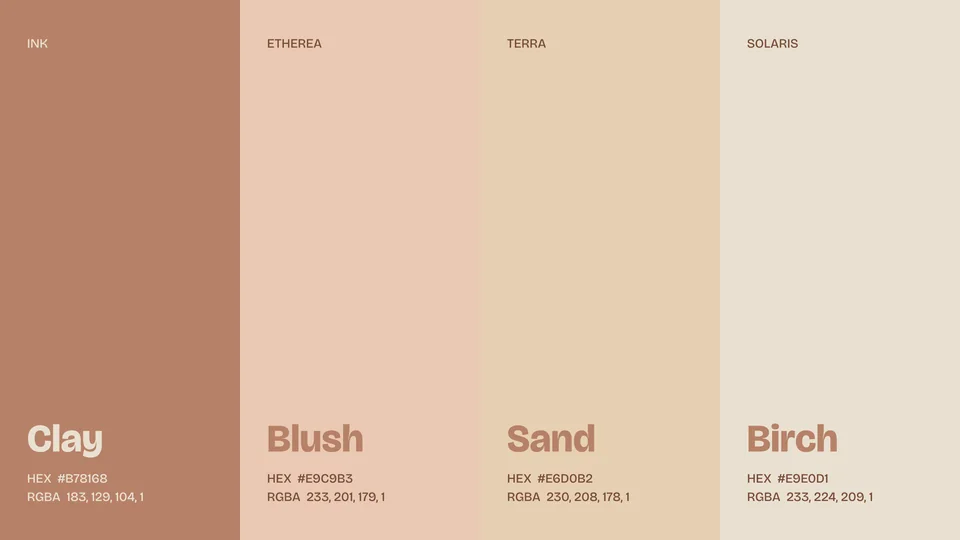
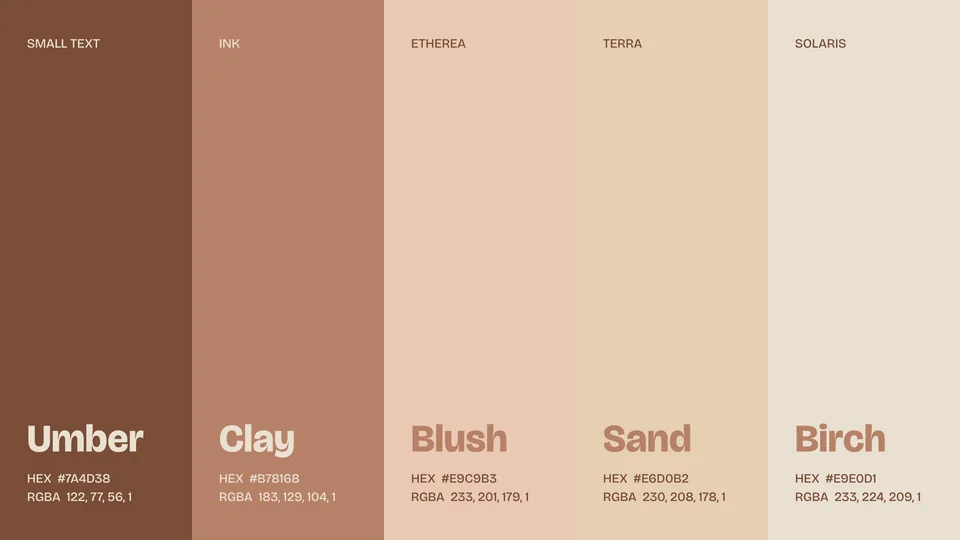
719 Studios: palette slide shows five colours, with Umber for small text

diff --git a/work/719-studios/index.html b/work/719-studios/index.html
@@ -28,19 +28,19 @@
     <a class="btn" href="mailto:hello@jcg.studio" data-flap><span class="flap">Work with me</span><span class="arr" aria-hidden="true">→</span></a>
   </aside>
   <div class="dk-stack">
-    <section class="sl" data-reveal role="img" aria-label="The 719 Studios logo in clay on a pale birch ground"><div class="in"><img class="fill" src="../../assets/img/work/719/deck/figma/01-logo-1920.webp?v=20261116g" srcset="../../assets/img/work/719/deck/figma/01-logo-960.webp?v=20261116g 960w, ../../assets/img/work/719/deck/figma/01-logo-1920.webp?v=20261116g 1920w" sizes="(max-width: 899px) 100vw, 70vw" width="1920" height="1080" alt="" decoding="async"></div></section>
-    <section class="sl" data-reveal role="img" aria-label="The four brand colours with their names and values: Clay, Blush, Sand and Birch"><div class="in"><img class="fill" src="../../assets/img/work/719/deck/figma/02-palette-1920.webp?v=20261116g" srcset="../../assets/img/work/719/deck/figma/02-palette-960.webp?v=20261116g 960w, ../../assets/img/work/719/deck/figma/02-palette-1920.webp?v=20261116g 1920w" sizes="(max-width: 899px) 100vw, 70vw" width="1920" height="1080" alt="" loading="lazy" decoding="async"></div></section>
-    <section class="sl" data-reveal role="img" aria-label="The typeface Bricolage Grotesque in three weights, with the three studio taglines"><div class="in"><img class="fill" src="../../assets/img/work/719/deck/figma/03-type-1920.webp?v=20261116g" srcset="../../assets/img/work/719/deck/figma/03-type-960.webp?v=20261116g 960w, ../../assets/img/work/719/deck/figma/03-type-1920.webp?v=20261116g 1920w" sizes="(max-width: 899px) 100vw, 70vw" width="1920" height="1080" alt="" loading="lazy" decoding="async"></div></section>
-    <section class="sl" data-reveal role="img" aria-label="The 719 Studios logo set inside the orange circle of the Etherea room"><div class="in"><img class="fill" src="../../assets/img/work/719/deck/figma/04-etherea-1920.webp?v=20261116g" srcset="../../assets/img/work/719/deck/figma/04-etherea-960.webp?v=20261116g 960w, ../../assets/img/work/719/deck/figma/04-etherea-1920.webp?v=20261116g 1920w" sizes="(max-width: 899px) 100vw, 70vw" width="1920" height="1080" alt="" loading="lazy" decoding="async"></div></section>
-    <section class="sl" data-reveal role="img" aria-label="Three studio posters, each showing its room through its own shape, laid over a photo of the Terra room"><div class="in"><img class="fill" src="../../assets/img/work/719/deck/figma/05-posters-1920.webp?v=20261116g" srcset="../../assets/img/work/719/deck/figma/05-posters-960.webp?v=20261116g 960w, ../../assets/img/work/719/deck/figma/05-posters-1920.webp?v=20261116g 1920w" sizes="(max-width: 899px) 100vw, 70vw" width="1920" height="1080" alt="" loading="lazy" decoding="async"></div></section>
-    <section class="sl" data-reveal role="img" aria-label="Four figures over a photo taken at Etherea: 1,000+ reviews, 5.0 average rating, No. 9 on Peerspace in Los Angeles in 2023, 3.2M timelapse views"><div class="in"><img class="fill" src="../../assets/img/work/719/deck/figma/06-numbers-1920.webp?v=20261116g" srcset="../../assets/img/work/719/deck/figma/06-numbers-960.webp?v=20261116g 960w, ../../assets/img/work/719/deck/figma/06-numbers-1920.webp?v=20261116g 1920w" sizes="(max-width: 899px) 100vw, 70vw" width="1920" height="1080" alt="" loading="lazy" decoding="async"></div></section>
-    <section class="sl" data-reveal role="img" aria-label="The 719 Studios logo over the empty Terra room"><div class="in"><img class="fill" src="../../assets/img/work/719/deck/figma/07-terra-1920.webp?v=20261116g" srcset="../../assets/img/work/719/deck/figma/07-terra-960.webp?v=20261116g 960w, ../../assets/img/work/719/deck/figma/07-terra-1920.webp?v=20261116g 1920w" sizes="(max-width: 899px) 100vw, 70vw" width="1920" height="1080" alt="" loading="lazy" decoding="async"></div></section>
-    <section class="sl" data-reveal role="img" aria-label="Two oversized studio shapes with a circle between them holding the logo"><div class="in"><img class="fill" src="../../assets/img/work/719/deck/figma/09-pattern-shapes-1920.webp?v=20261116g" srcset="../../assets/img/work/719/deck/figma/09-pattern-shapes-960.webp?v=20261116g 960w, ../../assets/img/work/719/deck/figma/09-pattern-shapes-1920.webp?v=20261116g 1920w" sizes="(max-width: 899px) 100vw, 70vw" width="1920" height="1080" alt="" loading="lazy" decoding="async"></div></section>
-    <section class="sl" data-reveal role="img" aria-label="A concept ad banner with the line Room to make and three photos seen through the studio shapes"><div class="in"><img class="fill" src="../../assets/img/work/719/deck/figma/10-ad-1920.webp?v=20261116g" srcset="../../assets/img/work/719/deck/figma/10-ad-960.webp?v=20261116g 960w, ../../assets/img/work/719/deck/figma/10-ad-1920.webp?v=20261116g 1920w" sizes="(max-width: 899px) 100vw, 70vw" width="1920" height="1080" alt="" loading="lazy" decoding="async"></div></section>
-    <section class="sl" data-reveal role="img" aria-label="A concept email signature with the three studio shapes and the logo"><div class="in"><img class="fill" src="../../assets/img/work/719/deck/figma/11-email-1920.webp?v=20261116g" srcset="../../assets/img/work/719/deck/figma/11-email-960.webp?v=20261116g 960w, ../../assets/img/work/719/deck/figma/11-email-1920.webp?v=20261116g 1920w" sizes="(max-width: 899px) 100vw, 70vw" width="1920" height="1080" alt="" loading="lazy" decoding="async"></div></section>
-    <section class="sl" data-reveal role="img" aria-label="A concept website header with the line Room to make and a large circular photo"><div class="in"><img class="fill" src="../../assets/img/work/719/deck/figma/12-website-1920.webp?v=20261116g" srcset="../../assets/img/work/719/deck/figma/12-website-960.webp?v=20261116g 960w, ../../assets/img/work/719/deck/figma/12-website-1920.webp?v=20261116g 1920w" sizes="(max-width: 899px) 100vw, 70vw" width="1920" height="1080" alt="" loading="lazy" decoding="async"></div></section>
-    <section class="sl" data-reveal role="img" aria-label="A concept T-shirt in clay with the three studio shapes on the back, worn in a room like Solaris"><div class="in"><img class="fill" src="../../assets/img/work/719/deck/figma/13-shirt-1920.webp?v=20261116g" srcset="../../assets/img/work/719/deck/figma/13-shirt-960.webp?v=20261116g 960w, ../../assets/img/work/719/deck/figma/13-shirt-1920.webp?v=20261116g 1920w" sizes="(max-width: 899px) 100vw, 70vw" width="1920" height="1080" alt="" loading="lazy" decoding="async"></div></section>
-    <section class="sl" data-reveal role="img" aria-label="A concept canvas tote bag with the logo, carried in a room like Terra"><div class="in"><img class="fill" src="../../assets/img/work/719/deck/figma/14-tote-1920.webp?v=20261116g" srcset="../../assets/img/work/719/deck/figma/14-tote-960.webp?v=20261116g 960w, ../../assets/img/work/719/deck/figma/14-tote-1920.webp?v=20261116g 1920w" sizes="(max-width: 899px) 100vw, 70vw" width="1920" height="1080" alt="" loading="lazy" decoding="async"></div></section>
+    <section class="sl" data-reveal role="img" aria-label="The 719 Studios logo in clay on a pale birch ground"><div class="in"><img class="fill" src="../../assets/img/work/719/deck/figma/01-logo-1920.webp?v=20261116i" srcset="../../assets/img/work/719/deck/figma/01-logo-960.webp?v=20261116i 960w, ../../assets/img/work/719/deck/figma/01-logo-1920.webp?v=20261116i 1920w" sizes="(max-width: 899px) 100vw, 70vw" width="1920" height="1080" alt="" decoding="async"></div></section>
+    <section class="sl" data-reveal role="img" aria-label="The five brand colours with their names and values: Umber, Clay, Blush, Sand and Birch"><div class="in"><img class="fill" src="../../assets/img/work/719/deck/figma/02-palette-1920.webp?v=20261116i" srcset="../../assets/img/work/719/deck/figma/02-palette-960.webp?v=20261116i 960w, ../../assets/img/work/719/deck/figma/02-palette-1920.webp?v=20261116i 1920w" sizes="(max-width: 899px) 100vw, 70vw" width="1920" height="1080" alt="" loading="lazy" decoding="async"></div></section>
+    <section class="sl" data-reveal role="img" aria-label="The typeface Bricolage Grotesque in three weights, with the three studio taglines"><div class="in"><img class="fill" src="../../assets/img/work/719/deck/figma/03-type-1920.webp?v=20261116i" srcset="../../assets/img/work/719/deck/figma/03-type-960.webp?v=20261116i 960w, ../../assets/img/work/719/deck/figma/03-type-1920.webp?v=20261116i 1920w" sizes="(max-width: 899px) 100vw, 70vw" width="1920" height="1080" alt="" loading="lazy" decoding="async"></div></section>
+    <section class="sl" data-reveal role="img" aria-label="The 719 Studios logo set inside the orange circle of the Etherea room"><div class="in"><img class="fill" src="../../assets/img/work/719/deck/figma/04-etherea-1920.webp?v=20261116i" srcset="../../assets/img/work/719/deck/figma/04-etherea-960.webp?v=20261116i 960w, ../../assets/img/work/719/deck/figma/04-etherea-1920.webp?v=20261116i 1920w" sizes="(max-width: 899px) 100vw, 70vw" width="1920" height="1080" alt="" loading="lazy" decoding="async"></div></section>
+    <section class="sl" data-reveal role="img" aria-label="Three studio posters, each showing its room through its own shape, laid over a photo of the Terra room"><div class="in"><img class="fill" src="../../assets/img/work/719/deck/figma/05-posters-1920.webp?v=20261116i" srcset="../../assets/img/work/719/deck/figma/05-posters-960.webp?v=20261116i 960w, ../../assets/img/work/719/deck/figma/05-posters-1920.webp?v=20261116i 1920w" sizes="(max-width: 899px) 100vw, 70vw" width="1920" height="1080" alt="" loading="lazy" decoding="async"></div></section>
+    <section class="sl" data-reveal role="img" aria-label="Four figures over a photo taken at Etherea: 1,000+ reviews, 5.0 average rating, No. 9 on Peerspace in Los Angeles in 2023, 3.2M timelapse views"><div class="in"><img class="fill" src="../../assets/img/work/719/deck/figma/06-numbers-1920.webp?v=20261116i" srcset="../../assets/img/work/719/deck/figma/06-numbers-960.webp?v=20261116i 960w, ../../assets/img/work/719/deck/figma/06-numbers-1920.webp?v=20261116i 1920w" sizes="(max-width: 899px) 100vw, 70vw" width="1920" height="1080" alt="" loading="lazy" decoding="async"></div></section>
+    <section class="sl" data-reveal role="img" aria-label="The 719 Studios logo over the empty Terra room"><div class="in"><img class="fill" src="../../assets/img/work/719/deck/figma/07-terra-1920.webp?v=20261116i" srcset="../../assets/img/work/719/deck/figma/07-terra-960.webp?v=20261116i 960w, ../../assets/img/work/719/deck/figma/07-terra-1920.webp?v=20261116i 1920w" sizes="(max-width: 899px) 100vw, 70vw" width="1920" height="1080" alt="" loading="lazy" decoding="async"></div></section>
+    <section class="sl" data-reveal role="img" aria-label="Two oversized studio shapes with a circle between them holding the logo"><div class="in"><img class="fill" src="../../assets/img/work/719/deck/figma/09-pattern-shapes-1920.webp?v=20261116i" srcset="../../assets/img/work/719/deck/figma/09-pattern-shapes-960.webp?v=20261116i 960w, ../../assets/img/work/719/deck/figma/09-pattern-shapes-1920.webp?v=20261116i 1920w" sizes="(max-width: 899px) 100vw, 70vw" width="1920" height="1080" alt="" loading="lazy" decoding="async"></div></section>
+    <section class="sl" data-reveal role="img" aria-label="A concept ad banner with the line Room to make and three photos seen through the studio shapes"><div class="in"><img class="fill" src="../../assets/img/work/719/deck/figma/10-ad-1920.webp?v=20261116i" srcset="../../assets/img/work/719/deck/figma/10-ad-960.webp?v=20261116i 960w, ../../assets/img/work/719/deck/figma/10-ad-1920.webp?v=20261116i 1920w" sizes="(max-width: 899px) 100vw, 70vw" width="1920" height="1080" alt="" loading="lazy" decoding="async"></div></section>
+    <section class="sl" data-reveal role="img" aria-label="A concept email signature with the three studio shapes and the logo"><div class="in"><img class="fill" src="../../assets/img/work/719/deck/figma/11-email-1920.webp?v=20261116i" srcset="../../assets/img/work/719/deck/figma/11-email-960.webp?v=20261116i 960w, ../../assets/img/work/719/deck/figma/11-email-1920.webp?v=20261116i 1920w" sizes="(max-width: 899px) 100vw, 70vw" width="1920" height="1080" alt="" loading="lazy" decoding="async"></div></section>
+    <section class="sl" data-reveal role="img" aria-label="A concept website header with the line Room to make and a large circular photo"><div class="in"><img class="fill" src="../../assets/img/work/719/deck/figma/12-website-1920.webp?v=20261116i" srcset="../../assets/img/work/719/deck/figma/12-website-960.webp?v=20261116i 960w, ../../assets/img/work/719/deck/figma/12-website-1920.webp?v=20261116i 1920w" sizes="(max-width: 899px) 100vw, 70vw" width="1920" height="1080" alt="" loading="lazy" decoding="async"></div></section>
+    <section class="sl" data-reveal role="img" aria-label="A concept T-shirt in clay with the three studio shapes on the back, worn in a room like Solaris"><div class="in"><img class="fill" src="../../assets/img/work/719/deck/figma/13-shirt-1920.webp?v=20261116i" srcset="../../assets/img/work/719/deck/figma/13-shirt-960.webp?v=20261116i 960w, ../../assets/img/work/719/deck/figma/13-shirt-1920.webp?v=20261116i 1920w" sizes="(max-width: 899px) 100vw, 70vw" width="1920" height="1080" alt="" loading="lazy" decoding="async"></div></section>
+    <section class="sl" data-reveal role="img" aria-label="A concept canvas tote bag with the logo, carried in a room like Terra"><div class="in"><img class="fill" src="../../assets/img/work/719/deck/figma/14-tote-1920.webp?v=20261116i" srcset="../../assets/img/work/719/deck/figma/14-tote-960.webp?v=20261116i 960w, ../../assets/img/work/719/deck/figma/14-tote-1920.webp?v=20261116i 1920w" sizes="(max-width: 899px) 100vw, 70vw" width="1920" height="1080" alt="" loading="lazy" decoding="async"></div></section>
     <p class="dk-fine">The three studios, room photos, reviews, award and timelapse views are real. Website, ad, email signature, T-shirt and tote bag are unproduced concepts; both pictures of people are AI-generated.</p>
     <p class="dk-fine">By JCG Studio</p>
   </div>
